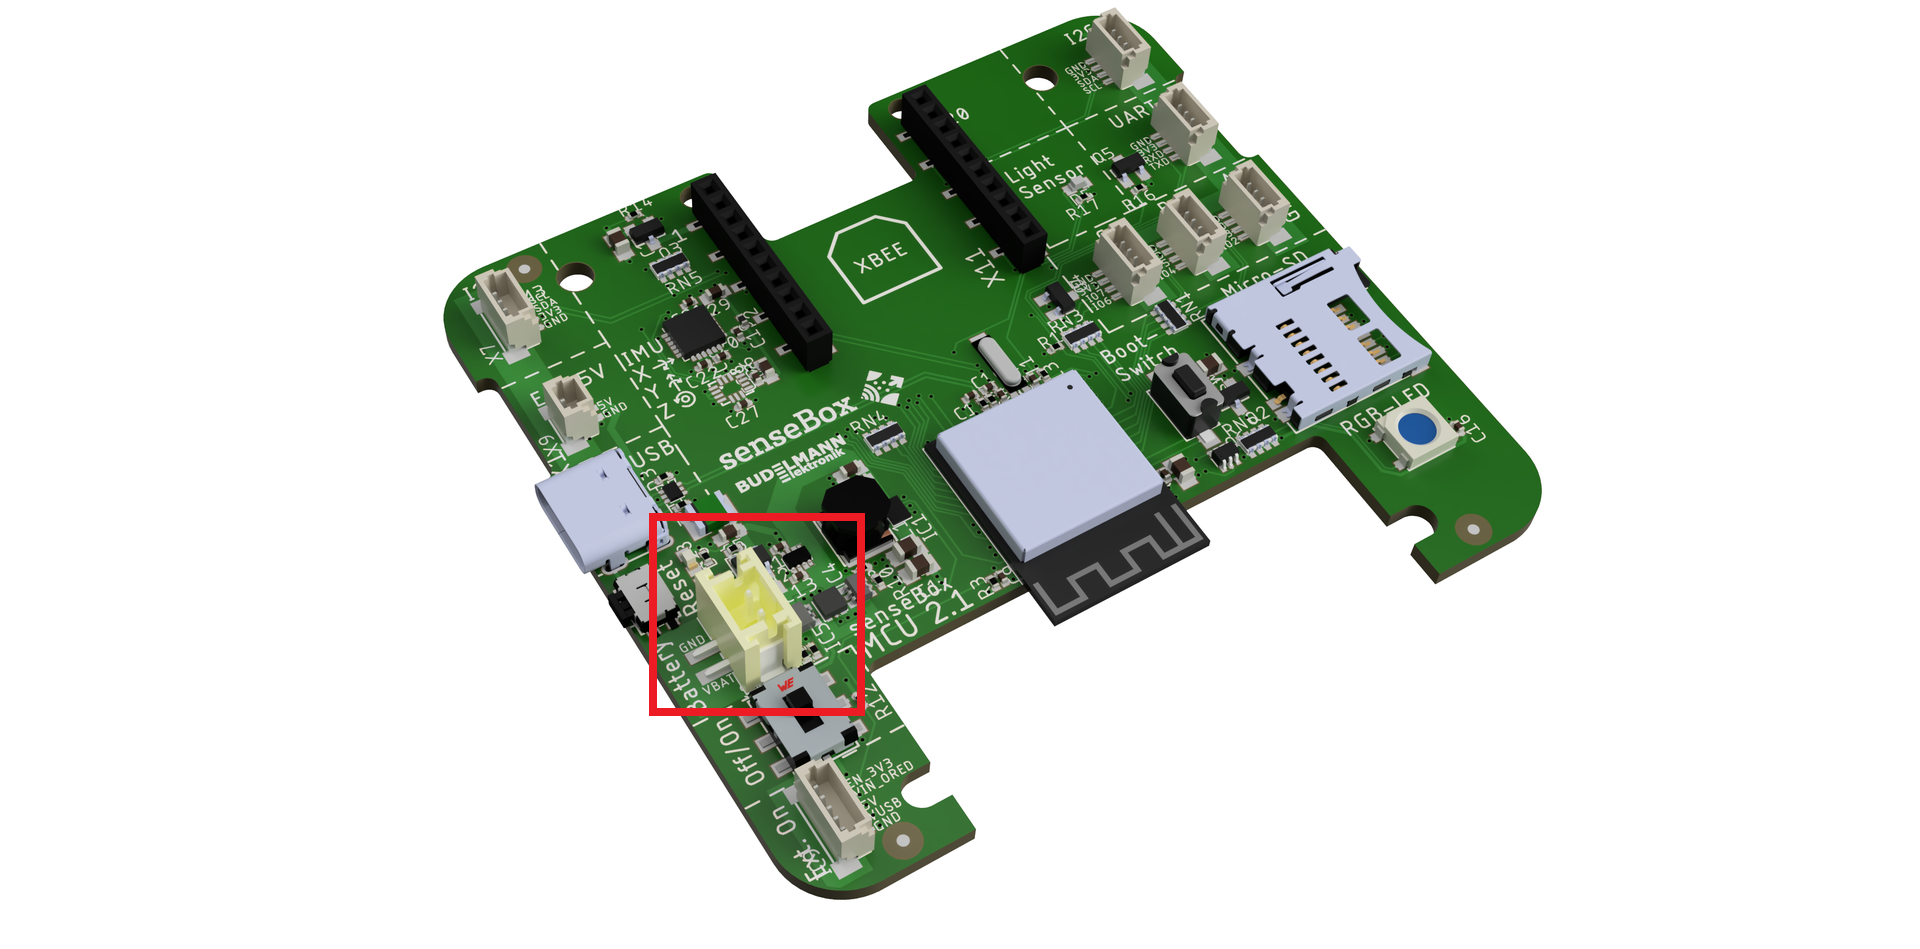
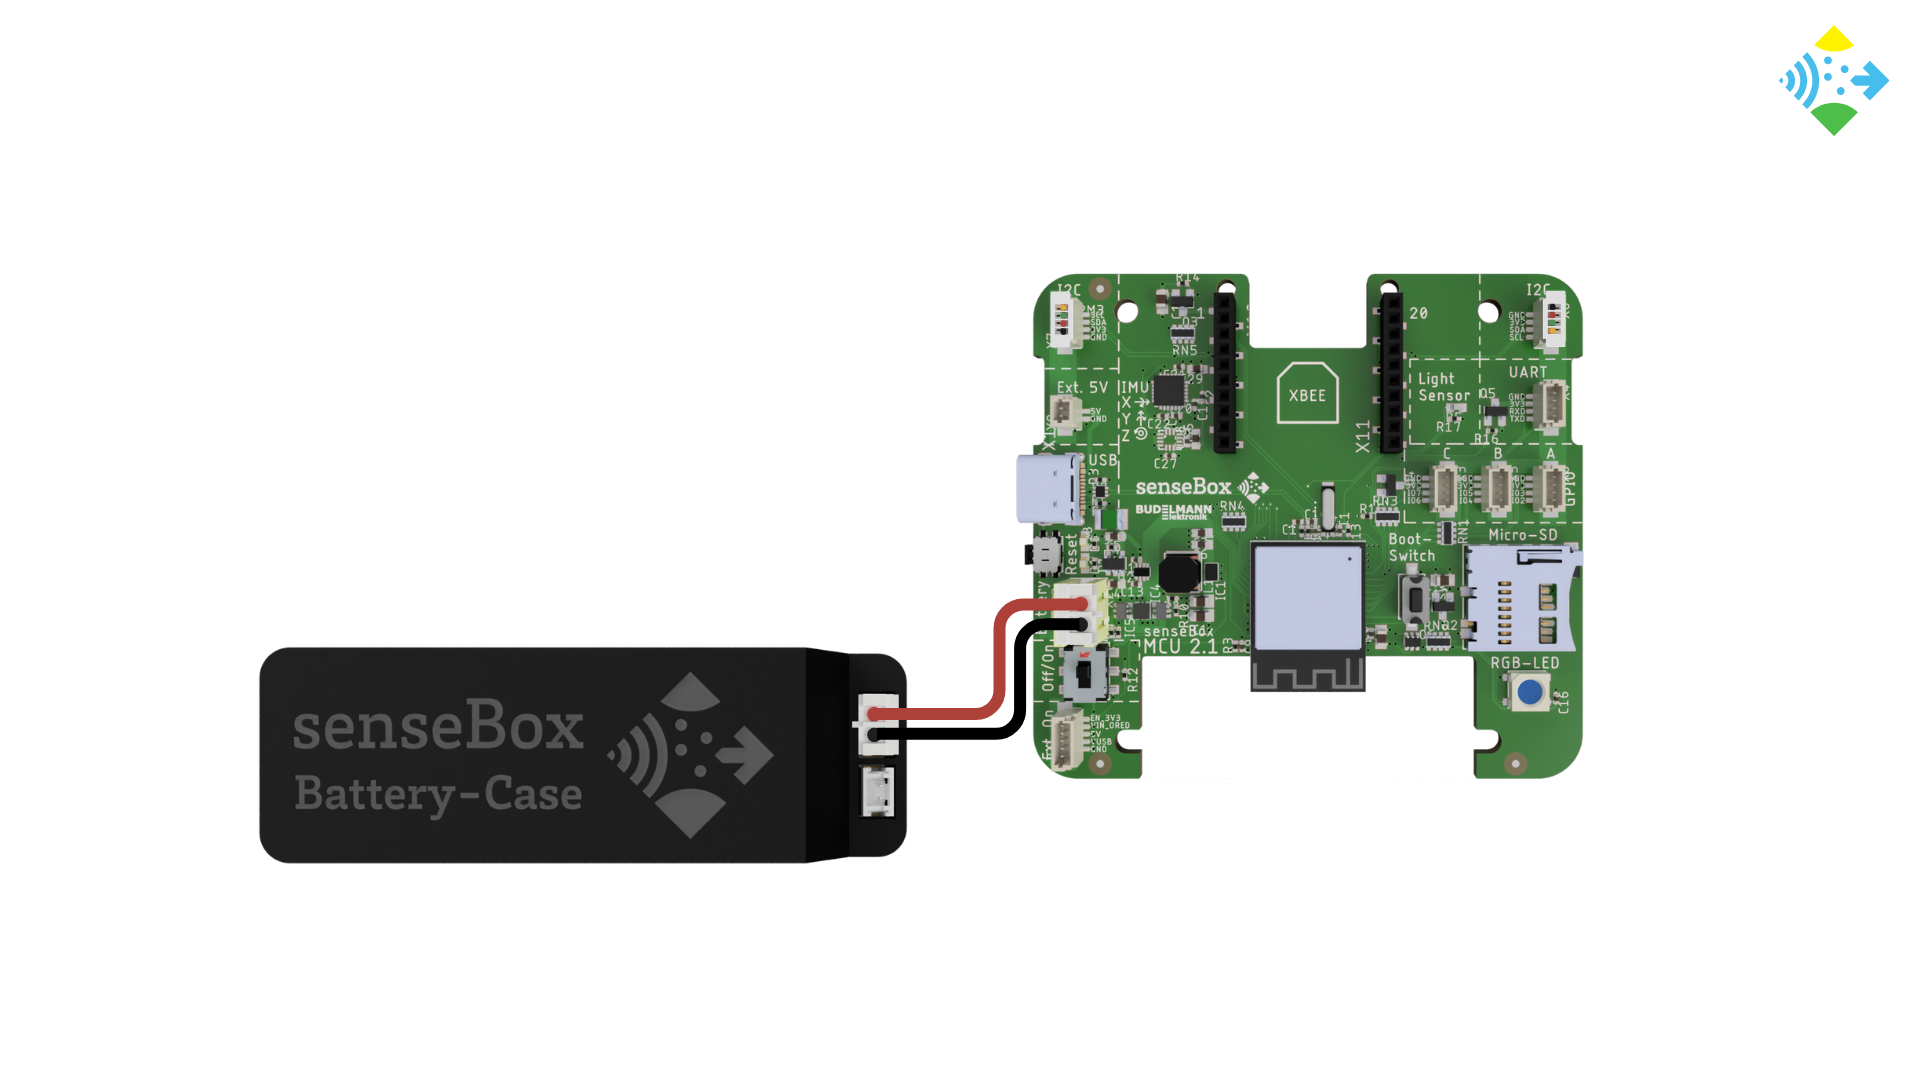
update images and overview page

diff --git a/src/components/HomepageFeatures/index.jsx b/src/components/HomepageFeatures/index.jsx
@@ -197,10 +197,10 @@ export default function HomepageFeatures() {
         <div className="flex flex-col gap-20 bg-gradient-to-r from-green to-green-3 p-8">
           <div className="flex flex-col items-center justify-evenly  lg:flex-row">
             <div className="text-center text-white">
-              <h1 className="font-bold">
+              <h1 className="text-4xl font-bold">
                 {translateTitle('senseBox Dokumentation')}
               </h1>
-              <p>
+              <p className="text-lg">
                 <Translate>Der Platz für die senseBox-Dokumentation.</Translate>
               </p>
             </div>